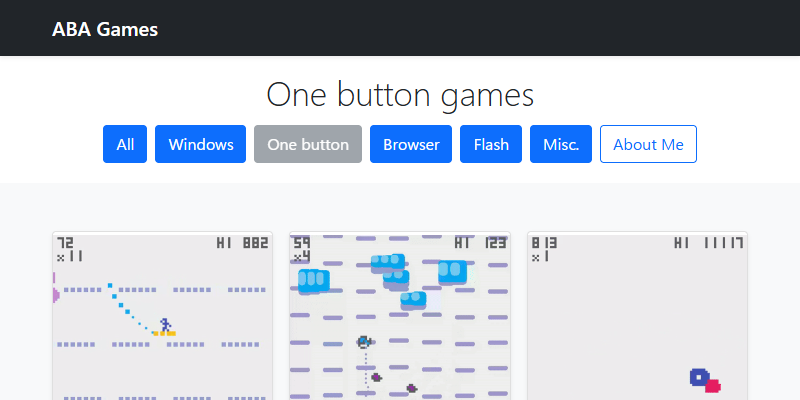
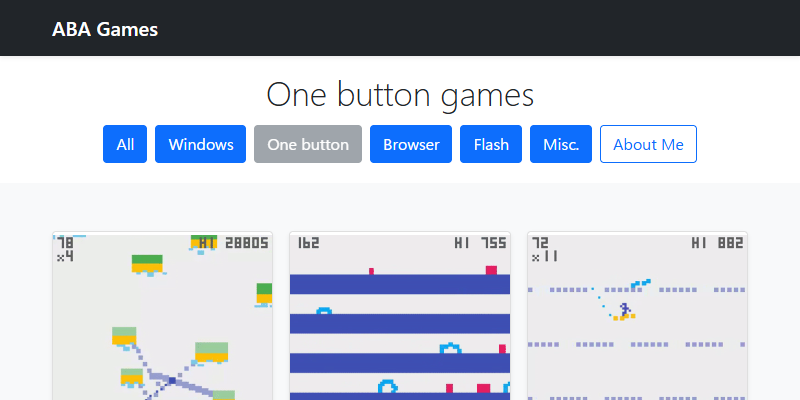
Add one button games

diff --git a/docs/index.html b/docs/index.html
@@ -540,6 +540,70 @@ class="btn btn-primary m-1">Misc.</a>
   <div class="card shadow-sm">
     
 <img
+  src="https://github.com/abagames/claude-one-button-game-creation/raw/main/docs/echo-bridge/screenshot.gif"
+  alt="Echo Bridge"
+  class="bd-placeholder-img card-img-top"
+  height="225"
+  style="object-fit: contain"
+  loading="lazy"
+/>
+
+    <div class="card-body">
+      <p class="card-text">Echo Bridge</p>
+      <div
+        class="d-flex justify-content-between align-items-center"
+      >
+        <div class="btn-group">
+          
+          <a
+            href="https://abagames.github.io/claude-one-button-game-creation/?echo-bridge"
+            class="btn btn-primary my-2"
+            >Play</a
+          >
+
+        </div>
+        <small class="text-muted">One button</small>
+      </div>
+    </div>
+  </div>
+</div>
+
+<div class="col">
+  <div class="card shadow-sm">
+    
+<img
+  src="https://github.com/abagames/claude-one-button-game-creation/raw/main/docs/pulse-stream/screenshot.gif"
+  alt="Pulse Stream"
+  class="bd-placeholder-img card-img-top"
+  height="225"
+  style="object-fit: contain"
+  loading="lazy"
+/>
+
+    <div class="card-body">
+      <p class="card-text">Pulse Stream</p>
+      <div
+        class="d-flex justify-content-between align-items-center"
+      >
+        <div class="btn-group">
+          
+          <a
+            href="https://abagames.github.io/claude-one-button-game-creation/?pulse-stream"
+            class="btn btn-primary my-2"
+            >Play</a
+          >
+
+        </div>
+        <small class="text-muted">One button</small>
+      </div>
+    </div>
+  </div>
+</div>
+
+<div class="col">
+  <div class="card shadow-sm">
+    
+<img
   src="https://github.com/abagames/claude-one-button-game-creation/raw/main/docs/jet-stream/screenshot.gif"
   alt="Jet Stream"
   class="bd-placeholder-img card-img-top"

diff --git a/docs/one_button.html b/docs/one_button.html
@@ -92,6 +92,70 @@ class="btn btn-primary m-1">Misc.</a>
   <div class="card shadow-sm">
     
 <img
+  src="https://github.com/abagames/claude-one-button-game-creation/raw/main/docs/echo-bridge/screenshot.gif"
+  alt="Echo Bridge"
+  class="bd-placeholder-img card-img-top"
+  height="225"
+  style="object-fit: contain"
+  loading="lazy"
+/>
+
+    <div class="card-body">
+      <p class="card-text">Echo Bridge</p>
+      <div
+        class="d-flex justify-content-between align-items-center"
+      >
+        <div class="btn-group">
+          
+          <a
+            href="https://abagames.github.io/claude-one-button-game-creation/?echo-bridge"
+            class="btn btn-primary my-2"
+            >Play</a
+          >
+
+        </div>
+        <small class="text-muted">One button</small>
+      </div>
+    </div>
+  </div>
+</div>
+
+<div class="col">
+  <div class="card shadow-sm">
+    
+<img
+  src="https://github.com/abagames/claude-one-button-game-creation/raw/main/docs/pulse-stream/screenshot.gif"
+  alt="Pulse Stream"
+  class="bd-placeholder-img card-img-top"
+  height="225"
+  style="object-fit: contain"
+  loading="lazy"
+/>
+
+    <div class="card-body">
+      <p class="card-text">Pulse Stream</p>
+      <div
+        class="d-flex justify-content-between align-items-center"
+      >
+        <div class="btn-group">
+          
+          <a
+            href="https://abagames.github.io/claude-one-button-game-creation/?pulse-stream"
+            class="btn btn-primary my-2"
+            >Play</a
+          >
+
+        </div>
+        <small class="text-muted">One button</small>
+      </div>
+    </div>
+  </div>
+</div>
+
+<div class="col">
+  <div class="card shadow-sm">
+    
+<img
   src="https://github.com/abagames/claude-one-button-game-creation/raw/main/docs/jet-stream/screenshot.gif"
   alt="Jet Stream"
   class="bd-placeholder-img card-img-top"
